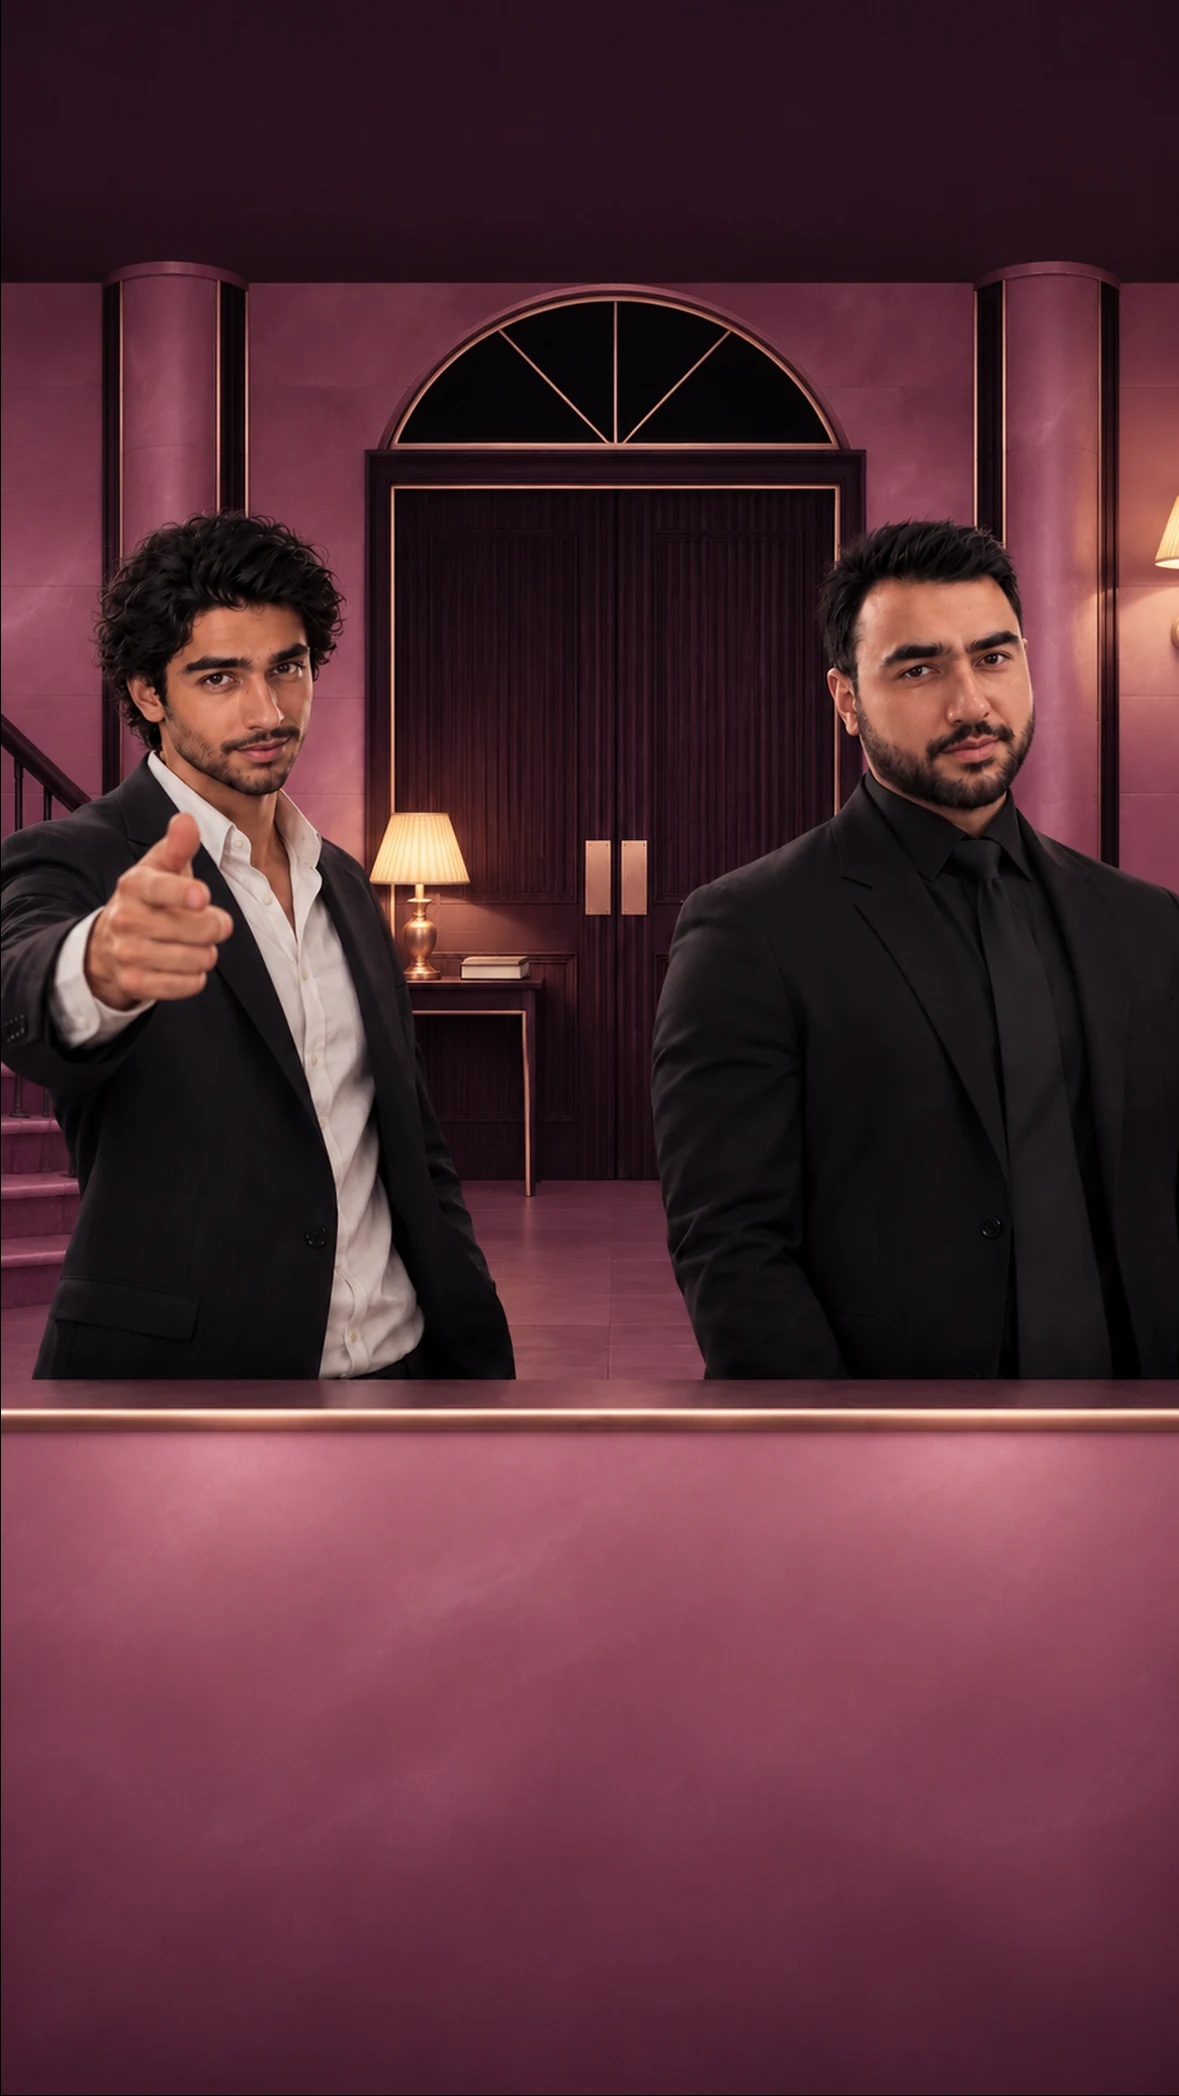
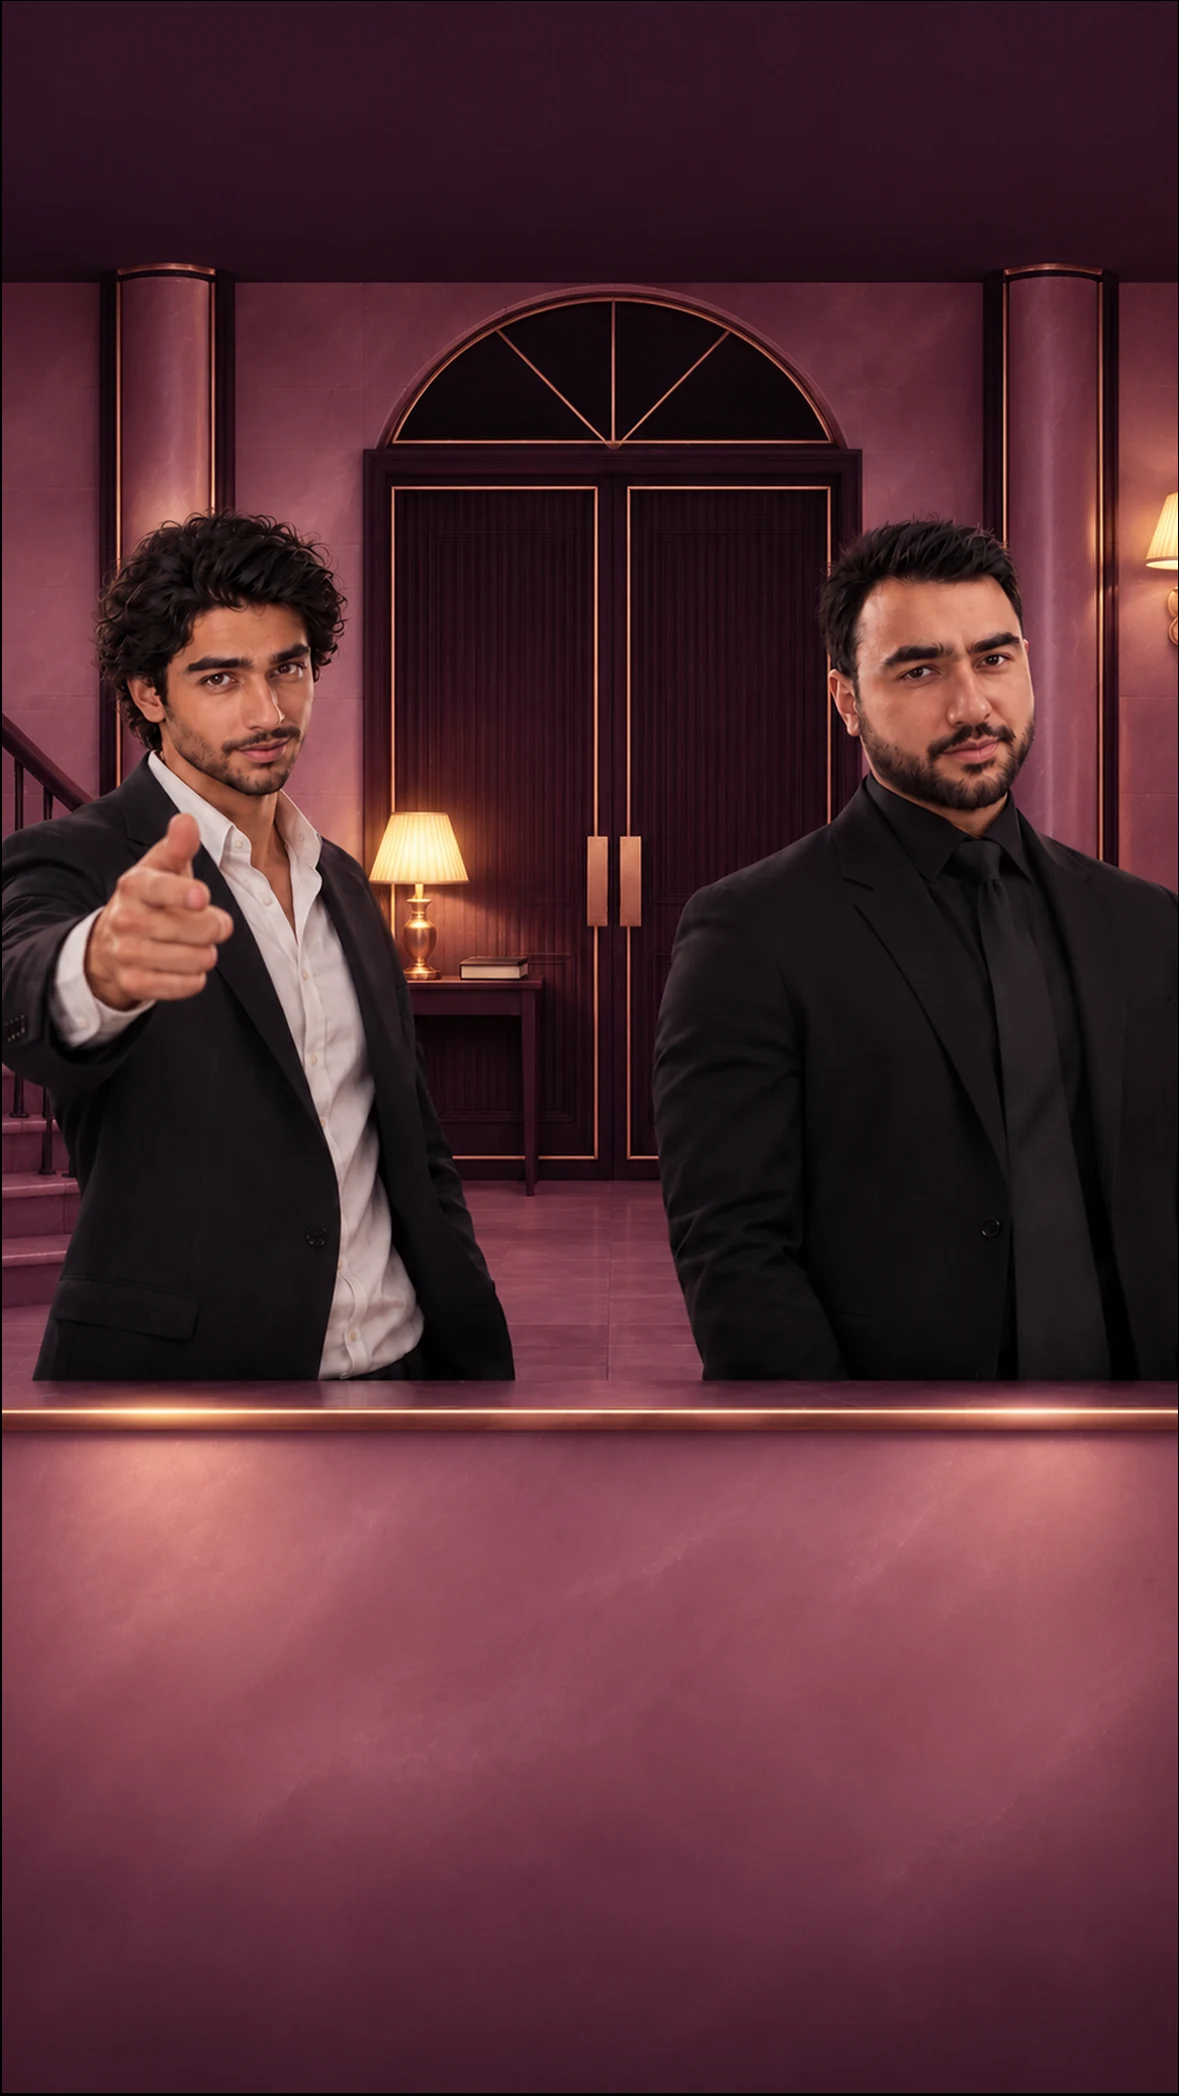
rosequartz: Hall phone master replaced by T2 (8.5, clearer lamp pools)

diff --git a/project-documents/hc-art/material-clubhouses/rosequartz/RUN_SHEET_ROSEQUARTZ.md b/project-documents/hc-art/material-clubhouses/rosequartz/RUN_SHEET_ROSEQUARTZ.md
@@ -47,7 +47,7 @@ Image links are pinned to commit `a6c0666d`, so they never move.
 | Home lounge, phone (RQ-12) | 8.5 | 8.5 | 1 (T1, locked 28 Nov under the 8-and-above bar) | first try: scale 1.005, men 7.0, all checks pass; the dark top band became plain rose quartz and the walls read calm and plain, with few clouds |
 | Board Room, phone (RQ-13) | 8.5 | 8.5 | 1 (T1, locked 28 Nov under the 8-and-above bar) | first try: scale 1.005, men 6.3, rail at 52.5%, all checks pass; faint thin pale streaks in the counter and the wall slabs, copied from the Board master in Image 2 |
 | Office, phone (RQ-14) | 8 | 8.5 | 1 (T1, locked 28 Nov under the 8-and-above bar) | first try: scale 1.002, men 8.4, all checks pass; the desk came back as one flat top of two slabs with one joint and both blotters, the window clear and the lamp at the right edge (the flat-desk ticket worked) |
-| Hall, phone (RQ-15) | 8 | 8 | 1 (T1, locked 28 Nov under the 8-and-above bar) | first try: scale 1.000, men 4.7, all checks pass; pillars, door, fanlight, stairs and side table kept; light a little even, the lamp pools are soft rather than clearly bright |
+| Hall, phone (RQ-15) | 8 | 8.5 | 2 (T2 from a second run of the same prompt replaced T1 at 8, 28 Nov) | T2: scale 0.998, men 4.8, all checks pass; clearer lamp pools, brighter wash along the counter rail, rose gold lines on the door frames; T1 (8) had even light with soft lamp pools |
 
 ## Batch 1: the 8 desktop rooms and the material slab (Rosequartz 3-11)
 Image 2 for every ticket here: the people-free cut of the two approved pilot rooms.
